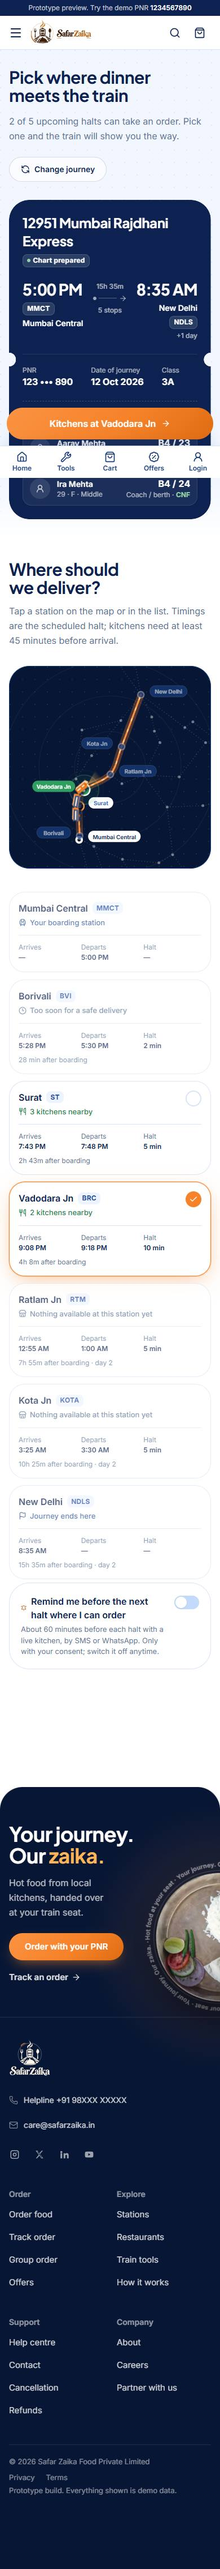
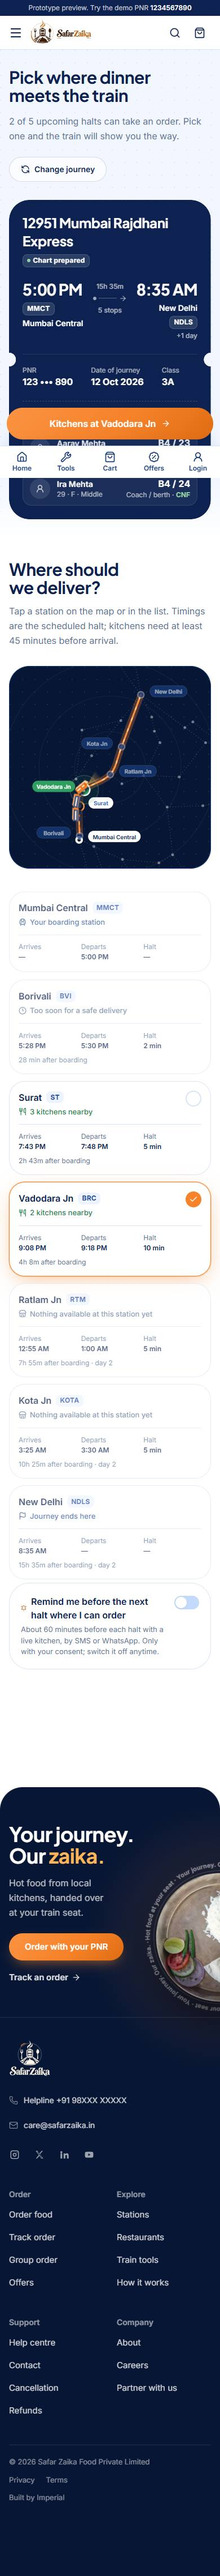
Build credit in the footer bar, group orders brought forward
Footer bottom bar is now three columns: copyright left, privacy and terms
centred, Built by Imperial on the right, linked to imperialtechinnovations.com.
The prototype/demo-data line is gone from the footer; the demo labelling stays
in the top strip and on the train tools.

Group orders move up front: a fourth hero service takes a headcount, a journey
date and a veg/non-veg preference and hands them to /bulk-order, where the form
opens prefilled, and the group-order panel moves up the home page to sit with
the meal sections.

diff --git a/src/components/hero/HeroServices.tsx b/src/components/hero/HeroServices.tsx
@@ -2,17 +2,19 @@
 
 import { useState } from "react";
 import { useRouter } from "next/navigation";
-import { BedDouble, Radio, Search, Utensils } from "lucide-react";
+import { ArrowRight, BedDouble, Radio, Search, Users, Utensils } from "lucide-react";
 import { cn } from "@/lib/utils";
-import { Button, Input } from "@/components/ui";
+import { Button, Input, Select } from "@/components/ui";
 import { PnrModule } from "@/components/pnr/PnrModule";
 import { TrainSearch } from "@/components/tools/ToolParts";
+import { MIN_GROUP, PREFERENCES } from "@/components/bulk-order/constants";
 import { toast } from "@/stores";
 
-type Service = "food" | "status" | "hotels";
+type Service = "food" | "group" | "status" | "hotels";
 
 const services: { id: Service; label: string; Icon: typeof Utensils; soon?: boolean }[] = [
   { id: "food", label: "Order food", Icon: Utensils },
+  { id: "group", label: "Group order", Icon: Users },
   { id: "status", label: "Train status", Icon: Radio },
   { id: "hotels", label: "Hotels", Icon: BedDouble, soon: true },
 ];
@@ -24,6 +26,10 @@ const services: { id: Service; label: string; Icon: typeof Utensils; soon?: bool
 export function HeroServices() {
   const router = useRouter();
   const [service, setService] = useState<Service>("food");
+  // Group-order starters; the bulk form picks them up from the query and carries on from there.
+  const [size, setSize] = useState(String(MIN_GROUP));
+  const [date, setDate] = useState("");
+  const [pref, setPref] = useState<string>(PREFERENCES[0].value);
 
   return (
     <>
@@ -50,6 +56,42 @@ export function HeroServices() {
       </div>
 
       {service === "food" && <PnrModule variant="search" />}
+
+      {service === "group" && (
+        <form
+          className="rounded-3xl bg-white p-4 text-cocoa-900 shadow-lift sm:p-5"
+          onSubmit={(e) => {
+            e.preventDefault();
+            const q = new URLSearchParams({ size, pref });
+            if (date) q.set("date", date);
+            router.push(`/bulk-order?${q}`);
+          }}
+        >
+          <div className="flex flex-wrap items-center justify-between gap-2">
+            <h2 className="font-display text-xl sm:text-2xl">Travelling as a group?</h2>
+            <span className="tag">From {MIN_GROUP} meals</span>
+          </div>
+          <p className="mt-1 text-sm text-muted">Fixed packages or a menu built with you, veg and non-veg packed separately, all handed over together at one halt.</p>
+          <div className="mt-4 grid grid-cols-2 gap-3 sm:grid-cols-[1fr_1fr_1fr]">
+            <Input
+              label="How many people"
+              type="number"
+              inputMode="numeric"
+              min={MIN_GROUP}
+              value={size}
+              onChange={(e) => setSize(e.target.value)}
+              className="col-span-2 sm:col-span-1"
+            />
+            <Input label="Journey date" type="date" value={date} onChange={(e) => setDate(e.target.value)} />
+            <Select label="Preference" value={pref} onChange={(e) => setPref(e.target.value)} options={PREFERENCES.map((p) => ({ value: p.value, label: p.label }))} />
+          </div>
+          <div className="mt-4 flex justify-end">
+            <Button type="submit" size="lg" rightIcon={<ArrowRight className="size-4" />}>
+              Plan the group order
+            </Button>
+          </div>
+        </form>
+      )}
 
       {service === "status" && (
         <TrainSearch

diff --git a/src/components/bulk-order/BulkOrderForm.tsx b/src/components/bulk-order/BulkOrderForm.tsx
@@ -1,6 +1,7 @@
 "use client";
 
 import { useEffect, useState, type ReactNode } from "react";
+import { useSearchParams } from "next/navigation";
 import { ArrowRight, CalendarDays, CheckCircle2, Hash, Mail, Minus, Phone, Plus, Ticket } from "lucide-react";
 import { clamp, cn } from "@/lib/utils";
 import { Button, Chip, Input, Select, Textarea } from "@/components/ui";
@@ -33,15 +34,21 @@ function Section({ step, title, children }: { step: string; title: string; child
 const stepBtn = "inline-flex h-full w-12 items-center justify-center transition-colors hover:bg-copper-100 active:bg-copper-200 disabled:pointer-events-none disabled:opacity-40";
 
 export function BulkOrderForm() {
-  const [sizeInput, setSizeInput] = useState(String(MIN_GROUP));
-  const [date, setDate] = useState("");
+  // The hero's group-order card hands over a headcount, a date and a preference; everything else starts blank.
+  const params = useSearchParams();
+  const fromHero = Number(params.get("size"));
+  const dateParam = params.get("date") ?? "";
+  const prefParam = params.get("pref");
+
+  const [sizeInput, setSizeInput] = useState(String(Number.isInteger(fromHero) && fromHero > 0 ? clamp(fromHero, MIN_GROUP, MAX_GROUP) : MIN_GROUP));
+  const [date, setDate] = useState(/^\d{4}-\d{2}-\d{2}$/.test(dateParam) ? dateParam : "");
   const [trainQuery, setTrainQuery] = useState("");
   const [train, setTrain] = useState<Train | null>(null);
   const [suggestions, setSuggestions] = useState<Train[]>([]);
   const [pnr, setPnr] = useState("");
   const [boarding, setBoarding] = useState("");
   const [delivery, setDelivery] = useState("");
-  const [preference, setPreference] = useState<BulkOrderRequest["preference"]>("veg");
+  const [preference, setPreference] = useState<BulkOrderRequest["preference"]>(PREFERENCES.find((p) => p.value === prefParam)?.value ?? "veg");
   const [packageId, setPackageId] = useState<string>(MEAL_PACKAGES[1].id);
   const [requirements, setRequirements] = useState("");
   const [phone, setPhone] = useState("");

diff --git a/src/components/layout/Footer.tsx b/src/components/layout/Footer.tsx
@@ -184,16 +184,22 @@ export function Footer() {
           ))}
         </div>
 
-        <div className="mt-10 flex flex-col gap-2 border-t border-cream-50/10 pt-5 text-[13px] text-cream-50/50 sm:flex-row sm:items-center sm:justify-between sm:gap-6 lg:mt-8">
+        {/* Copyright left, the legal pages centred, the build credit right. */}
+        <div className="mt-10 grid gap-3 border-t border-cream-50/10 pt-5 text-[13px] text-cream-50/50 sm:grid-cols-3 sm:items-center lg:mt-8">
           <p>© 2026 Safar Zaika Food Private Limited</p>
-          <div className="flex flex-wrap items-center gap-x-5 gap-y-1">
+          <div className="flex flex-wrap items-center gap-x-5 gap-y-1 sm:justify-center">
             {legal.map(([label, href]) => (
               <Link key={href} href={href} className={quiet}>
                 {label}
               </Link>
             ))}
-            <p>Prototype build. Everything shown is demo data.</p>
           </div>
+          <p className="sm:text-right">
+            Built by{" "}
+            <a href="https://www.imperialtechinnovations.com/" target="_blank" rel="noopener noreferrer" className={quiet}>
+              Imperial
+            </a>
+          </p>
         </div>
       </div>
     </footer>

diff --git a/src/app/page.tsx b/src/app/page.tsx
@@ -16,7 +16,8 @@ import { OffersSection } from "@/components/offers/OffersSection";
 import { Testimonials } from "@/components/testimonials/Testimonials";
 import { CtaBand } from "@/components/home/CtaBand";
 
-/** Search first, then the order in four steps, tools and offers; browsing, proof and the long read follow. Each section has its own entrance. */
+/** Search first, then the order in four steps, tools and offers; group orders sit with the meal sections, and
+ * browsing, proof and the long read follow. Each section has its own entrance. */
 export default function HomePage() {
   return (
     <>
@@ -27,10 +28,10 @@ export default function HomePage() {
       <OffersSection />
       <Categories />
       <MealTimes />
+      <BulkCta />
       <FoodDiscovery />
       <RestaurantShowcase />
       <TrustSection />
-      <BulkCta />
       <StationCoverage />
       <LiveJourney />
       <RecentOrders />

diff --git a/src/app/bulk-order/page.tsx b/src/app/bulk-order/page.tsx
@@ -1,4 +1,5 @@
 import type { Metadata } from "next";
+import { Suspense } from "react";
 import { PageHeader } from "@/components/layout/PageHeader";
 import { BulkOrderForm } from "@/components/bulk-order/BulkOrderForm";
 import { AUDIENCES } from "@/components/bulk-order/constants";
@@ -27,7 +28,10 @@ export default function BulkOrderPage() {
           ))}
         </ul>
       </PageHeader>
-      <BulkOrderForm />
+      {/* The form reads the headcount, date and preference the hero card passed in ?size/?date/?pref. */}
+      <Suspense fallback={<div aria-hidden className="min-h-[80svh]" />}>
+        <BulkOrderForm />
+      </Suspense>
     </>
   );
 }

diff --git a/README.md b/README.md
@@ -64,7 +64,7 @@ Deliberately **not** installed: **styled-components** (Tailwind tokens cover eve
 src/
   app/                  routes (server page.tsx + metadata; client views in components/), globals.css, carousels.css, opengraph-image
   components/
-    layout/             Navbar (transparent over the home hero, solid white elsewhere; sentence-case links, scroll hairline, journey chip), BottomTabBar (mobile: Home, Tools, Cart, Offers, Account), MobileNav, Footer (tagline headline, a thali plate that turns with scroll inside a ring of text, then brand + contact beside four plain link groups, privacy and terms in the bottom bar), PageHeader
+    layout/             Navbar (transparent over the home hero, solid white elsewhere; sentence-case links, scroll hairline, journey chip), BottomTabBar (mobile: Home, Tools, Cart, Offers, Account), MobileNav, Footer (tagline headline, a thali plate that turns with scroll inside a ring of text, then brand + contact and four link groups on five even columns, over a bottom bar: copyright left, privacy and terms centred, the build credit right), PageHeader
     hero/               Hero (content block vertically centred over the navy 3D band, reassurance chips, journey-aware info pill), HeroServices (service switcher: Order food = the three-tab search card, Train status = hand-off to /train-tools?tool=live-status&train=…, Hotels = a labelled coming-soon preview), HeroScene + scene/ (Train, Track, Backdrop, geometry, textures)
     pnr/                PnrModule (PNR / train / station modes; `variant="search"` is the wide hero card), PnrLoading (fullscreen discovery overlay), OrderView
     journey/            NetworkMap (shared camera map), JourneyMap, TrainMarker (isometric train), JourneyCard (ticket), StationCard, JourneyStatus, JourneyView
@@ -74,7 +74,7 @@ src/
     cart/               CartPanel, CartDrawer, StickyCartBar, ReplaceCartModal, CartView
     checkout/           CheckoutView, PaymentMethods (prepaid vs pay-at-delivery), OrderSummary, CouponField, PlacingOverlay
     tracking/           TrackOrderEntry, TrackingView (cancel panel), TrackingHero (LED status), OrderTimeline, OrderDetails
-    bulk-order/         BulkOrderForm (packages with veg / non-veg prices), BulkSidebar, BulkSuccess, constants
+    bulk-order/         BulkOrderForm (packages with veg / non-veg prices; prefills from ?size/?date/?pref), BulkSidebar, BulkSuccess, constants
     offers/             OfferCard, OffersSection, OffersGrid
     testimonials/       Testimonials (react-slick)
     modals/             WelcomeModal (auto-opens once per session), LoginModal + LoginForm (OTP), OrderNowModal, SearchModal
@@ -138,7 +138,7 @@ Type: **Plus Jakarta Sans** 700 for display (`h1`–`h3`, `.font-display`) and *
 | Order flow: received → confirmed → pushed to vendor → prepared → delivered | `orderStatusSteps` labels and the tracking LED |
 | Cancellation with mandatory reason | Cancel panel on tracking (only while received/confirmed), `CANCEL_REASONS`, `cancelMockOrder` |
 | Reminders for long routes, subject to consent | Reminder switch on `/journey` (persisted, consent copy) |
-| Group / bulk orders: fixed packages, customisable, veg / non-veg | Bulk form packages with veg / non-veg prices, custom-menu option, minimum-10 note (tentative) |
+| Group / bulk orders: fixed packages, customisable, veg / non-veg | Group order is one of the hero's four services (headcount, date and preference hand over to `/bulk-order?size&date&pref`), a panel high on the home page, and a nav and footer link; the form carries packages with veg / non-veg prices, a custom-menu option and the minimum-10 note (tentative) |
 
 ## Connecting the real backend later
 
